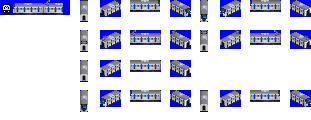
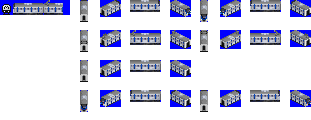
Fix: Wrong sprite offset of Korail 371k, 381k 1st Closes #327

Changed region(s): [[0.926, 0.25, 1.0, 0.425], [0.3183, 0.25, 0.4051, 0.425]]

diff --git a/docs/changelog.md b/docs/changelog.md
@@ -1,7 +1,7 @@
 2.2.1+
 -----
  * 수정: 유개화차가 매개변수를 적용받지 못하던 현상 [#321]
- * 수정: 수도권 1호선, 통근형 무도색 차량의 그래픽 위치 수정 [#322]
+ * 수정: 수도권 1호선, 통근형 무도색 차량, '371k, 381k 1차' 차량의 그래픽 위치 수정 [#322, #327]
  * 수정: 7x00호대에 발전차를 붙일 경우 길이가 무조건 짧게 나오는 현상 [#324]
  * 수정: 새마을호 DHC 동차에 식당차를 붙이면 수송량이 1명으로 표시되는 현상 [#325]
 
